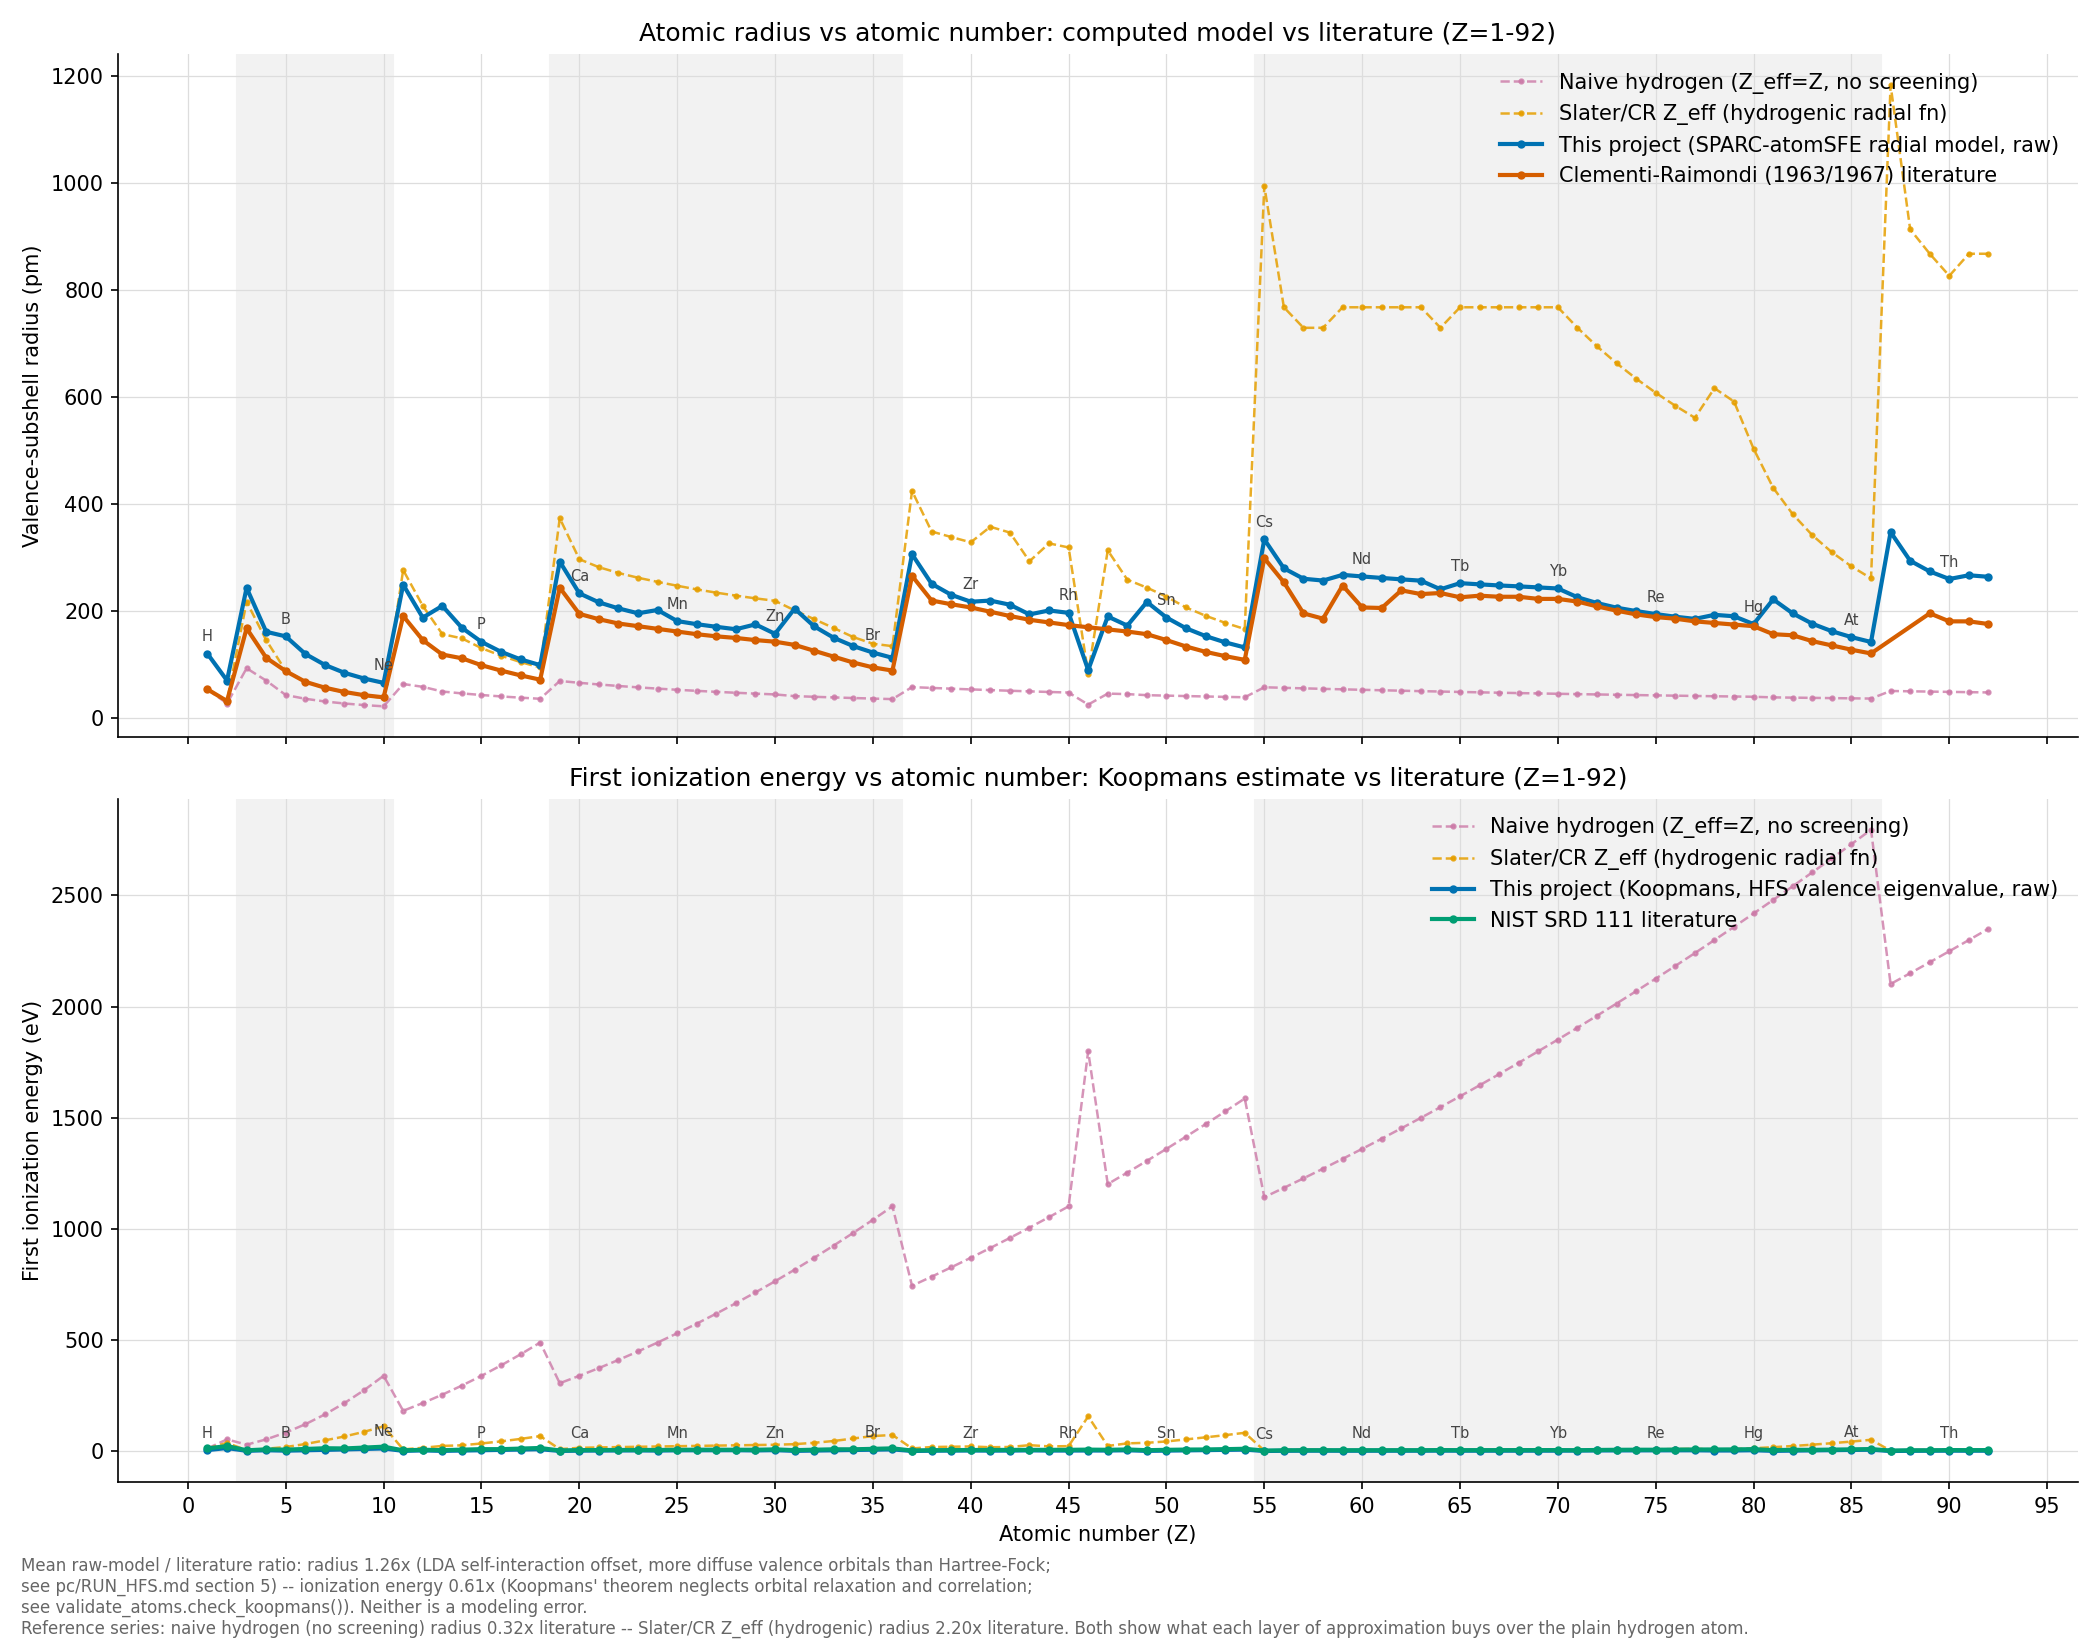
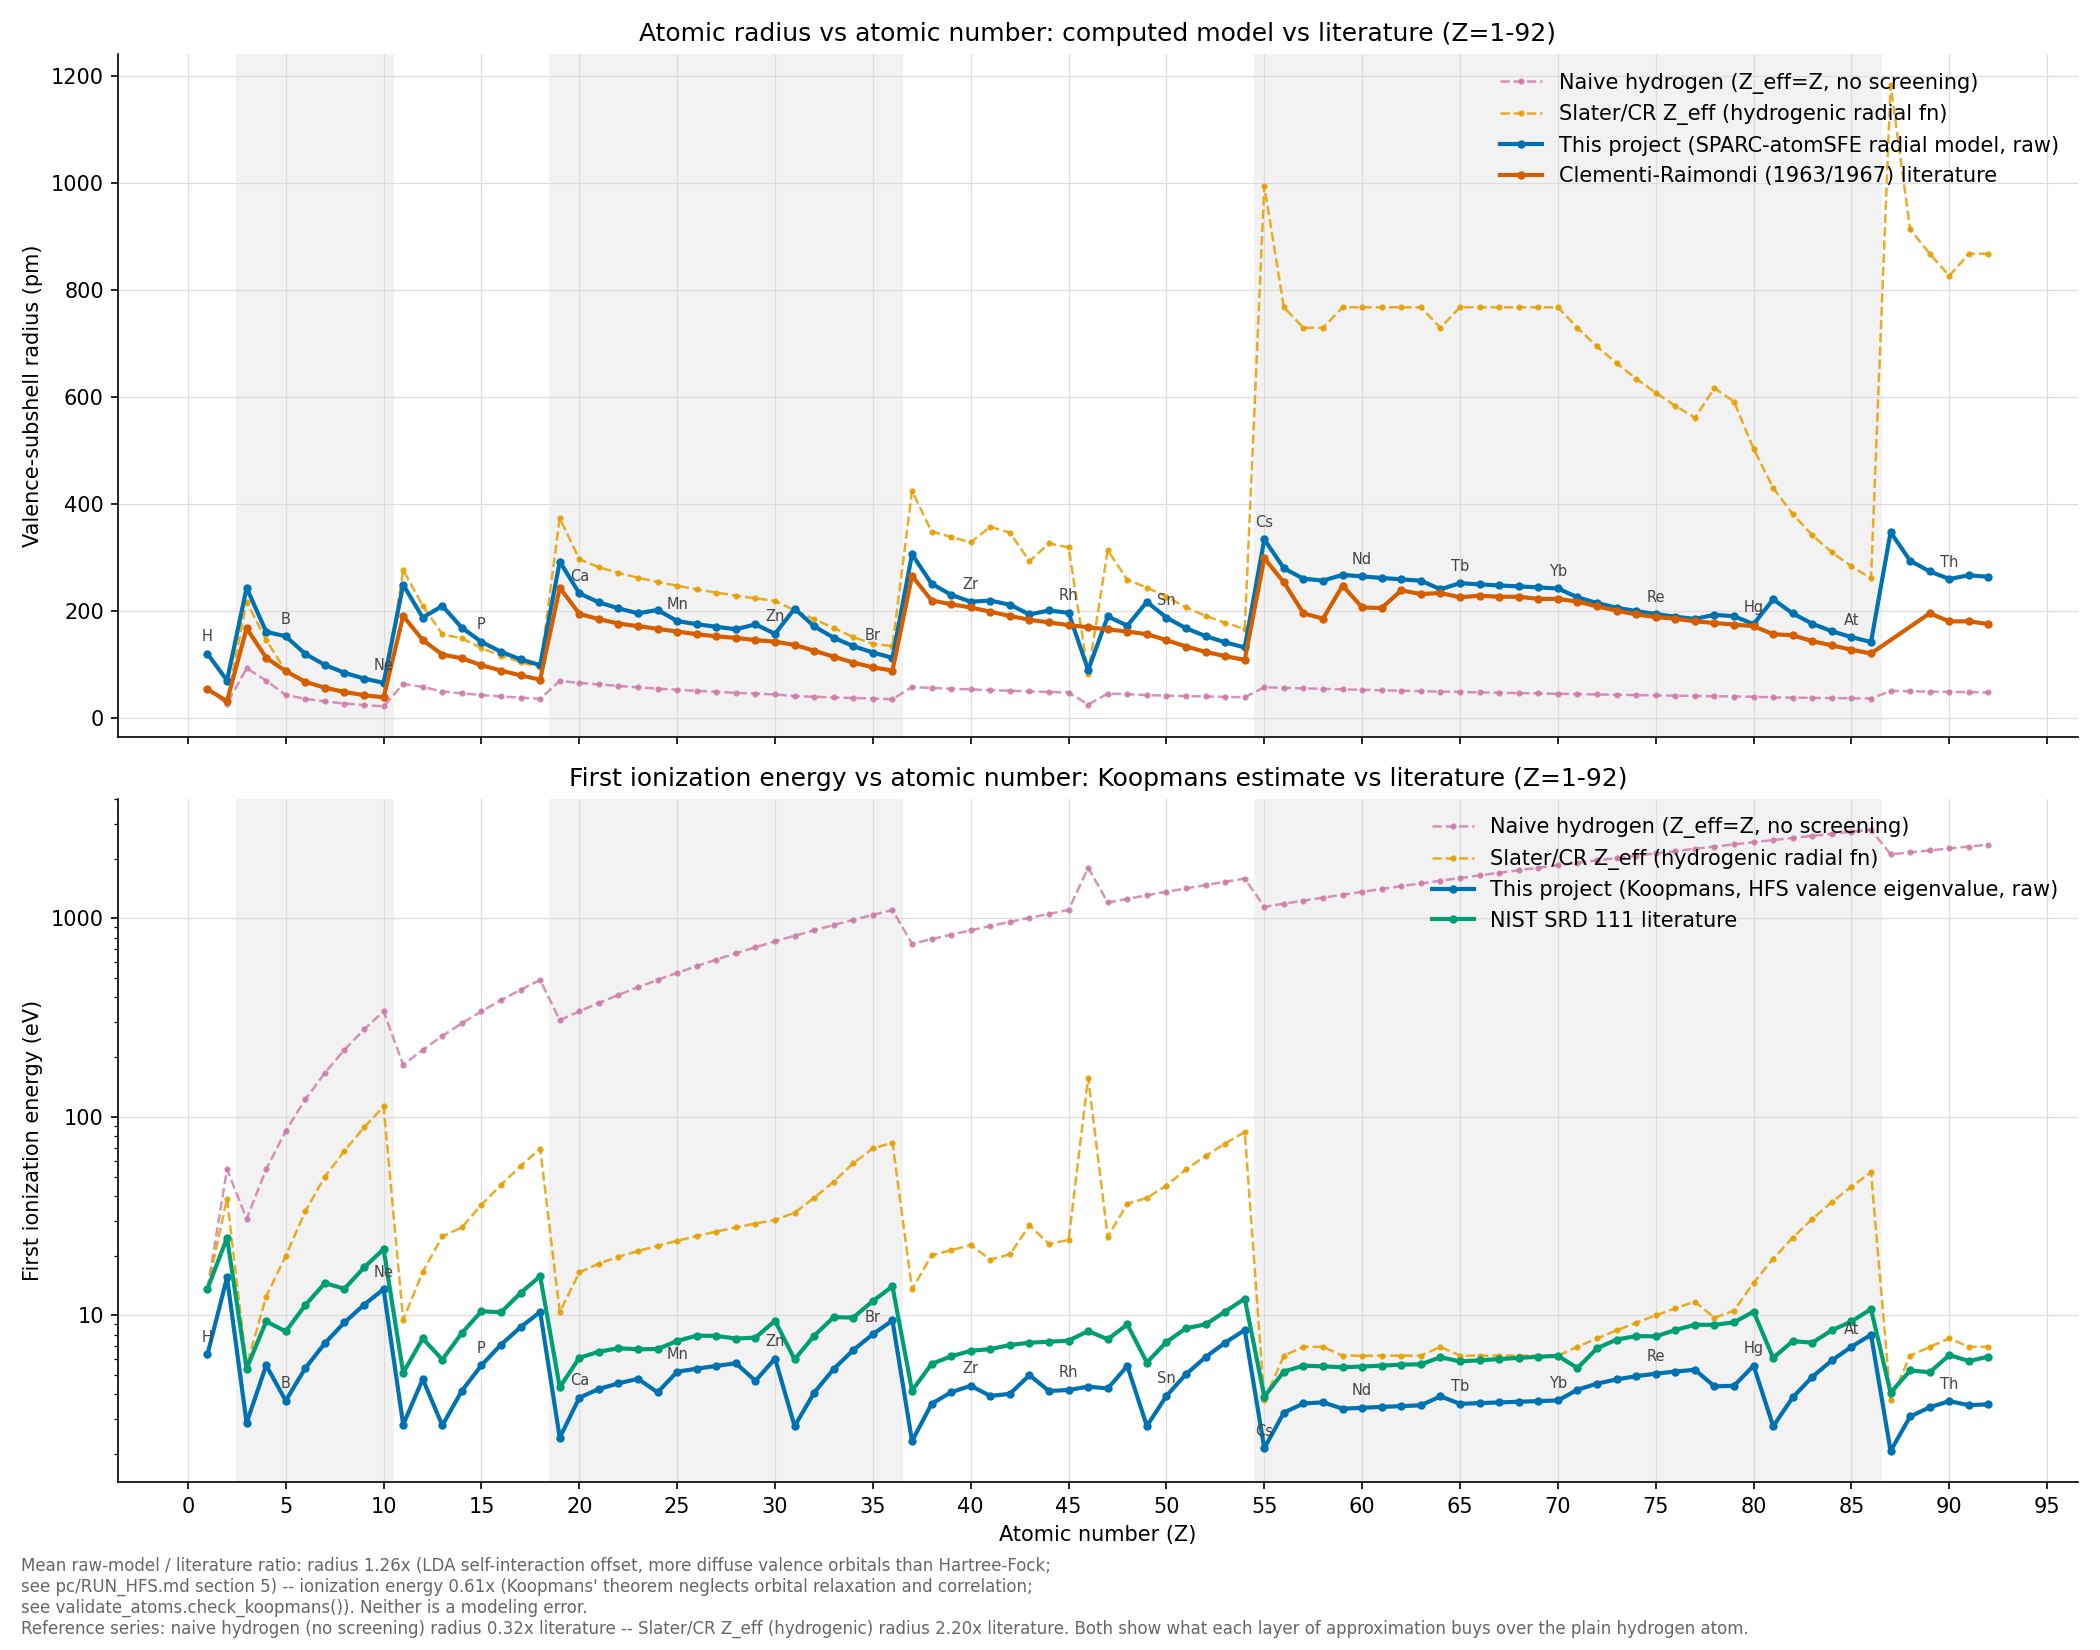
Add C++ STYLE guide; tweak plot styling
Add a new STYLE.MD documenting C++ best practices (naming, RAII, smart pointers, std:: containers, exception and threading guidance) with an example. Small change in pc/plot_atomic_radii.py: call _style_axes(ax_i, True) to adjust styling for the ionization-energy subplot. Also update the pc/atomic_radii.png asset to match the refreshed plot output.

diff --git a/pc/plot_atomic_radii.py b/pc/plot_atomic_radii.py
@@ -221,7 +221,7 @@ def main():
     ax_i.set_xlabel('Atomic number (Z)')
     ax_i.set_ylabel('First ionization energy (eV)')
     ax_i.set_title('First ionization energy vs atomic number: Koopmans estimate vs literature (Z=1-%d)' % zmax)
-    _style_axes(ax_i)
+    _style_axes(ax_i, True)
     ax_i.legend(frameon=False, loc='upper right')
 
     fig.text(0.01, 0.01,

diff --git a/STYLE.MD b/STYLE.MD
@@ -1,0 +1,77 @@
+C++ Best Practices
+
+This document collects widely recommended C++ best practices from forums, expert recommendations, and modern C++ guidelines to improve code readability, safety, and maintainability.
+
+## 1. Coding Style
+- Follow consistent naming conventions:
+  - `camelCase` or `snake_case` for variables and functions consistently.
+  - `PascalCase` for classes and structs.
+- Keep line length reasonable (80-120 characters), and use indentation for readability.
+- Comment **why**, not **what**. Avoid redundant comments.
+
+## 2. Modern C++ Concepts
+- Prefer **RAII** (Resource Acquisition Is Initialization) to manage resources safely.
+- Use **smart pointers** (`std::unique_ptr`, `std::shared_ptr`) over raw pointers when ownership semantics are needed.
+- Avoid `new`/`delete` directly if possible—use containers or smart pointers.
+- Utilize **`constexpr`**, **`noexcept`**, and **`[[nodiscard]]`** for modern safety and optimization.
+
+## 3. Standard Library Usage
+- Prefer `std::vector`, `std::array`, `std::string` over C-style arrays and strings.
+- Use algorithms in `<algorithm>` instead of manual loops when possible:
+  ```cpp
+  std::sort(vec.begin(), vec.end());
+  std::for_each(vec.begin(), vec.end(), [](int x){ std::cout << x << '
+'; });
+Use std::optional instead of sentinel values or null pointers to represent optional values.
+
+## 4. Functions and Classes
+Prefer small, single-responsibility functions.
+Pass arguments by reference (const T&) when objects are large; pass by value for small/primitive types.
+Avoid public data members; favor accessors/mutators or structured classes.
+Mark functions as const whenever they don't modify object state.
+
+## 5. Exception Safety
+Use try/catch only around code that can actually throw.
+Avoid catching ... unless rethrowing or logging.
+Ensure resource cleanup—use RAII patterns to handle memory and file streams.
+Don't use try/catch on ESP32 platforms
+
+## 6. Multi-threading and Concurrency
+Use C++ standard library threads (<thread>, <mutex>, <atomic>) for portability.
+Avoid data races by using locks, std::atomic, or higher-level abstractions.
+Minimize shared mutable state; favor immutable data when possible.
+
+## 7. Performance Optimization
+Measure first—profile before optimizing.
+Prefer algorithmic efficiency over micro-optimizations.
+Use emplace_back instead of push_back when constructing objects directly in containers.
+
+## 8. Tools and Compilation
+Enable compiler warnings (-Wall -Wextra in GCC/Clang) and treat warnings as errors during development.
+Use static analysis tools like clang-tidy or cppcheck to detect issues early.
+Write unit tests for critical functionality; use frameworks like Google Test.
+
+Example:
+
+#include <iostream>
+#include <vector>
+#include <algorithm>
+#include <memory>
+
+struct MyStruct {
+    int value;
+};
+
+int main() {
+    std::vector<std::unique_ptr<MyStruct>> vec;
+    vec.emplace_back(std::make_unique<MyStruct>(MyStruct{10}));
+    vec.emplace_back(std::make_unique<MyStruct>(MyStruct{20}));
+
+    std::sort(vec.begin(), vec.end(), [](const auto& a, const auto& b){
+        return a->value < b->value;
+    });
+
+    for (const auto& item : vec) {
+        std::cout << item->value << std::endl;
+    }
+}
